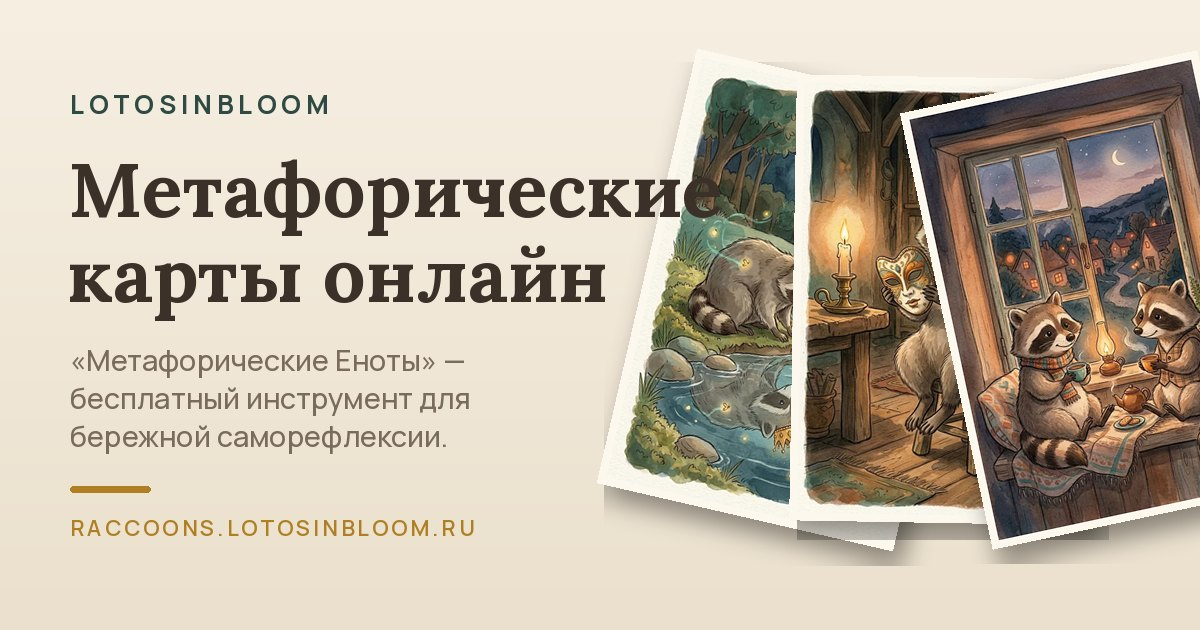
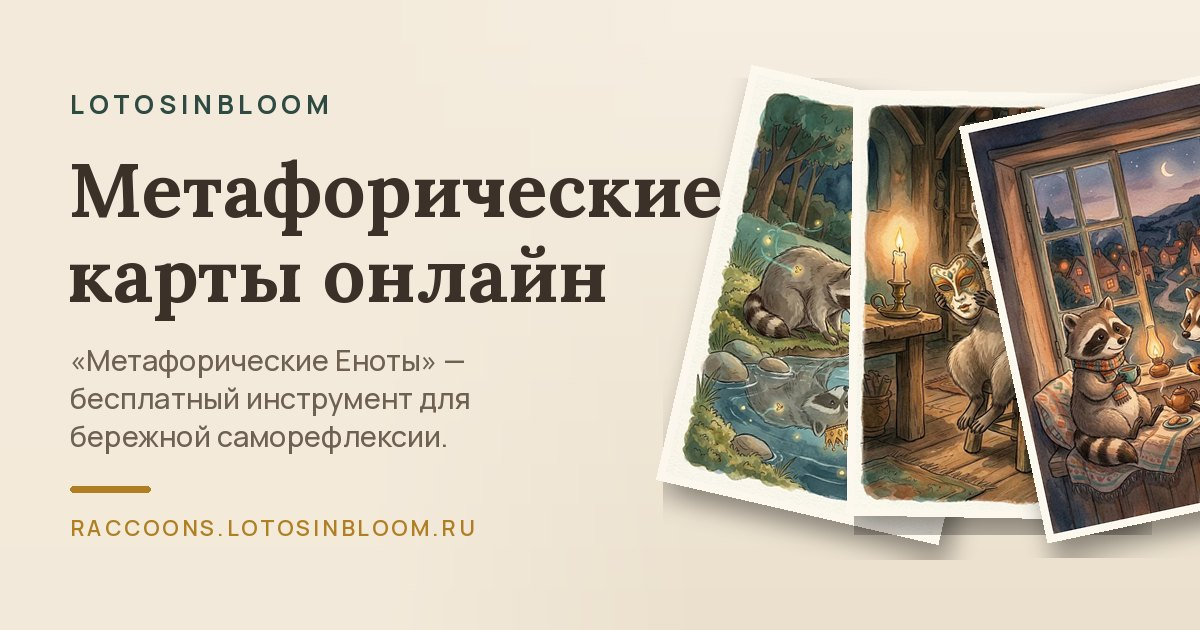
Fix Telegram link, deck overlap, OG readability; move deck actions
- Telegram button now opens Daria's chat with the text prefilled
  (t.me/dariametelskaya?text=...) instead of a share/forward dialog;
  still copies the message to clipboard as a fallback
- Drawn cards now always land to the right of the deck column, never
  on top of the deck/label/count (was overlapping on mobile)
- Move 'Перемешать' and 'Начать заново' out of the header to sit under
  the deck as felt-styled buttons; header keeps How-it-works + Discuss
- OG image: add a paper scrim behind the left text so the title stays
  readable where it met the card fan

https://claude.ai/code/session_014Jkvb8csuuXomUFo5DVZjZ

Changed region(s): [[0.4933, 0.0905, 1.0, 0.9048]]

diff --git a/public/styles.css b/public/styles.css
@@ -220,16 +220,24 @@ h1 {
 
 /* ---------- deck ---------- */
 
-.deck {
+.deck-col {
   position: absolute;
-  left: 36px;
-  top: 36px;
+  left: 34px;
+  top: 32px;
   width: var(--card-w);
+  display: flex;
+  flex-direction: column;
+  gap: 9px;
+  z-index: 5;
+}
+
+.deck {
+  position: relative;
+  width: 100%;
   height: var(--card-h);
   cursor: pointer;
   user-select: none;
   -webkit-user-select: none;
-  z-index: 5;
   outline: none;
 }
 
@@ -264,14 +272,12 @@ h1 {
 .deck:focus-visible .deck-card:nth-child(3) { transform: translate(-3px, -5px) rotate(-2deg); }
 
 .deck-label {
-  position: absolute;
-  bottom: -26px;
-  width: 100%;
   text-align: center;
   font-size: 0.72rem;
   letter-spacing: 0.12em;
   text-transform: uppercase;
   color: rgba(244, 236, 223, 0.78);
+  margin-top: 2px;
 }
 
 .deck.empty { cursor: default; }
@@ -280,15 +286,29 @@ h1 {
 .deck.empty .deck-card:nth-child(3) { opacity: 0.4; }
 
 .deck-count {
-  position: absolute;
-  left: 36px;
-  top: calc(36px + var(--card-h) + 36px);
-  max-width: 200px;
   color: rgba(244, 236, 223, 0.82);
   line-height: 1.4;
+  margin-top: 2px;
 }
 .deck-count strong { display: block; font-family: var(--font-serif); font-size: 1rem; font-weight: 600; }
 .deck-count span { font-size: 0.78rem; color: rgba(244, 236, 223, 0.6); }
+
+.deck-actions { display: flex; gap: 7px; flex-wrap: wrap; margin-top: 3px; }
+.felt-btn {
+  flex: 1 1 auto;
+  font-family: var(--font-sans);
+  font-size: 0.76rem;
+  font-weight: 600;
+  padding: 0.42rem 0.5rem;
+  border-radius: 999px;
+  cursor: pointer;
+  white-space: nowrap;
+  color: #f3ece0;
+  background: rgba(244, 236, 223, 0.12);
+  border: 1px solid rgba(244, 236, 223, 0.32);
+  transition: background 0.15s ease, transform 0.12s ease;
+}
+.felt-btn:hover { background: rgba(244, 236, 223, 0.22); transform: translateY(-1px); }
 
 /* ---------- cards on the table ---------- */
 
@@ -495,8 +515,7 @@ h1 {
   .intention { padding: 0.5rem 1.1rem 0.8rem; }
   .shared-banner { margin: 0 1.1rem 0.4rem; }
   .table { margin: 0.3rem 0.7rem 0.8rem; min-height: 460px; }
-  .deck { left: 18px; top: 18px; }
-  .deck-count { left: 18px; top: calc(18px + var(--card-h) + 34px); max-width: 150px; }
+  .deck-col { left: 16px; top: 16px; }
   .deck-count strong { font-size: 0.9rem; }
   .site-footer { padding: 0.5rem 1.1rem 1.1rem; }
 }

diff --git a/public/app.js b/public/app.js
@@ -161,14 +161,17 @@ function drawCard() {
   const id = pool[Math.floor(Math.random() * pool.length)];
 
   const r = tableRect();
-  const cardW = deckEl.offsetWidth;
-  const cardH = deckEl.offsetHeight;
-  const maxX = Math.max(0.3, 1 - (cardW + 18) / r.width);
+  const deckR = deckEl.getBoundingClientRect();
+  const cardW = deckR.width;
+  const cardH = deckR.height;
+  // cards must land to the right of the deck column, never on top of it
+  const maxX = Math.max(0.4, 1 - (cardW + 18) / r.width);
+  const minX = Math.min(maxX - 0.02, (deckR.right - r.left + 22) / r.width);
   const maxY = Math.max(0.1, 1 - (cardH + 18) / r.height);
   const entry = {
     id,
-    x: clamp(0.3 + Math.random() * 0.45, 0.28, maxX),
-    y: clamp(0.1 + Math.random() * 0.42, 0.05, Math.min(0.62, maxY)),
+    x: clamp(minX + Math.random() * Math.max(0.02, maxX - minX), minX, maxX),
+    y: clamp(0.06 + Math.random() * 0.4, 0.04, Math.min(0.5, maxY)),
     tilt: +(Math.random() * 8 - 4).toFixed(1),
   };
   state.drawn.push(entry);
@@ -274,13 +277,21 @@ async function openShare() {
 }
 
 function fillShare(url) {
-  shareMessage.value = TG_GREETING + " " + url;
-  // открыть Telegram с уже готовым сообщением; адресата выбирают одним касанием
-  shareTg.href = `https://t.me/share/url?url=${encodeURIComponent(url)}&text=${encodeURIComponent(TG_GREETING)}`;
+  const full = TG_GREETING + " " + url;
+  shareMessage.value = full;
+  // открыть личный чат с Дарьей и подставить текст сообщения
+  shareTg.href = "https://t.me/dariametelskaya?text=" + encodeURIComponent(full);
   shareTg.classList.remove("is-disabled");
   shareMessage.style.height = "auto";
   shareMessage.style.height = shareMessage.scrollHeight + 2 + "px";
 }
+
+// на части клиентов текст из ссылки не подставляется — кладём его и в буфер обмена
+shareTg.addEventListener("click", () => {
+  copyText(shareMessage.value).then((ok) => {
+    if (ok) toast("Сообщение скопировано — если оно не подставится, вставьте его в чат");
+  });
+});
 
 async function copyText(text) {
   try {

diff --git a/public/index.html b/public/index.html
@@ -64,8 +64,6 @@
     </div>
     <nav class="header-actions">
       <button id="how-btn" class="ghost-btn" type="button">Как это работает</button>
-      <button id="shuffle-btn" class="ghost-btn" type="button">Перемешать</button>
-      <button id="reset-btn" class="ghost-btn" type="button">Начать заново</button>
       <button id="discuss-btn" class="solid-btn" type="button" hidden>Обсудить с Дарьей</button>
     </nav>
   </header>
@@ -88,15 +86,21 @@
   </div>
 
   <main id="table" class="table" aria-label="Стол с картами">
-    <div id="deck" class="deck" role="button" tabindex="0" aria-label="Колода карт — вытянуть карту">
-      <div class="deck-card"></div>
-      <div class="deck-card"></div>
-      <div class="deck-card"></div>
+    <div class="deck-col">
+      <div id="deck" class="deck" role="button" tabindex="0" aria-label="Колода карт — вытянуть карту">
+        <div class="deck-card"></div>
+        <div class="deck-card"></div>
+        <div class="deck-card"></div>
+      </div>
       <div class="deck-label" id="deck-label">вытянуть карту</div>
-    </div>
-    <div class="deck-count" id="deck-count">
-      <strong>В колоде 50 карт</strong>
-      <span>вытяните столько, сколько захотите</span>
+      <div class="deck-count" id="deck-count">
+        <strong>В колоде 50 карт</strong>
+        <span>вытяните столько, сколько захотите</span>
+      </div>
+      <div class="deck-actions">
+        <button id="shuffle-btn" class="felt-btn" type="button">Перемешать</button>
+        <button id="reset-btn" class="felt-btn" type="button">Начать заново</button>
+      </div>
     </div>
   </main>
 
